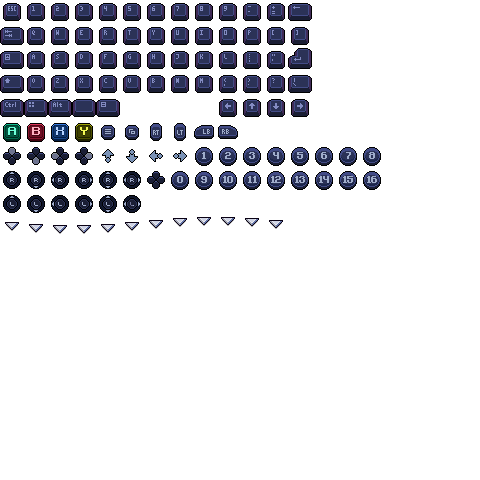
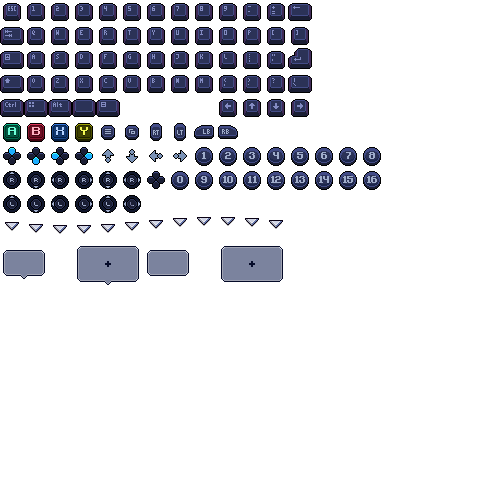
add background for controller help

diff --git a/src/game/mechanisms/controllerhelp.cpp b/src/game/mechanisms/controllerhelp.cpp
@@ -46,12 +46,21 @@ void ControllerHelp::draw(sf::RenderTarget& target, sf::RenderTarget& /*normal*/
 
    const auto margin_x_px = (_sprites.size() - 1) * PIXELS_PER_TILE / 2.0f;
    const auto width_of_tiles_px = _sprites.size() * PIXELS_PER_TILE + margin_x_px;
+   const auto tile_offset_y = sin(_time.asSeconds() * 5.0f) * 8.0f;
 
+   // draw background
+   _background.setPosition(
+      _rect_center.x - _background.getTextureRect().width / 2,
+      _rect_center.y + tile_offset_y - 11
+   );
+
+   target.draw(_background);
+
+   // draw icons
    auto index = 0;
    for (auto& sprite : _sprites)
    {
       const auto tile_offset_x = -width_of_tiles_px / 2.0f + index * PIXELS_PER_TILE * 1.5f;
-      const auto tile_offset_y = sin(index + _time.asSeconds() * 5.0f) * 8.0f;
       sprite.setPosition(_rect_center.x + tile_offset_x, _rect_center.y + tile_offset_y);
       target.draw(sprite);
       index++;
@@ -152,6 +161,29 @@ void ControllerHelp::deserialize(TmxObject* tmx_object)
      );
 
       _sprites.push_back(sprite);
+   }
+
+   _background.setTexture(*_texture);
+
+   if (_sprites.size() == 1)
+   {
+      _background.setTextureRect({
+            6 * PIXELS_PER_TILE,
+            10 * PIXELS_PER_TILE,
+            PIXELS_PER_TILE * 2,
+            PIXELS_PER_TILE * 2
+         }
+      );
+   }
+   else if (_sprites.size() == 2)
+   {
+      _background.setTextureRect({
+            9 * PIXELS_PER_TILE,
+            10 * PIXELS_PER_TILE,
+            PIXELS_PER_TILE * 2,
+            PIXELS_PER_TILE * 3
+         }
+      );
    }
 }
 

diff --git a/src/game/mechanisms/dialogue.cpp b/src/game/mechanisms/dialogue.cpp
@@ -136,7 +136,10 @@ void Dialogue::showNext()
       return;
    }
 
-   GameState::getInstance().enqueuePause();
+   if (_index == 0)
+   {
+      GameState::getInstance().enqueuePause();
+   }
 
    const auto item = _dialogue_items.at(_index);
 

diff --git a/src/game/mechanisms/controllerhelp.h b/src/game/mechanisms/controllerhelp.h
@@ -22,6 +22,7 @@ class ControllerHelp : public GameMechanism, public GameNode
       sf::IntRect _rect_px;
       sf::Vector2f _rect_center;
       std::vector<sf::Sprite> _sprites;
+      sf::Sprite _background;
       bool _visible = false;
       sf::Time _time;
 };